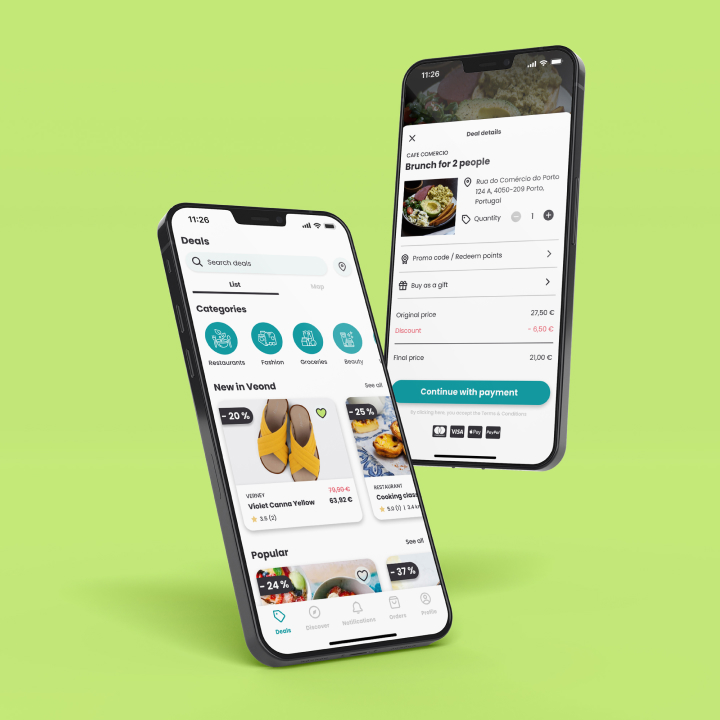
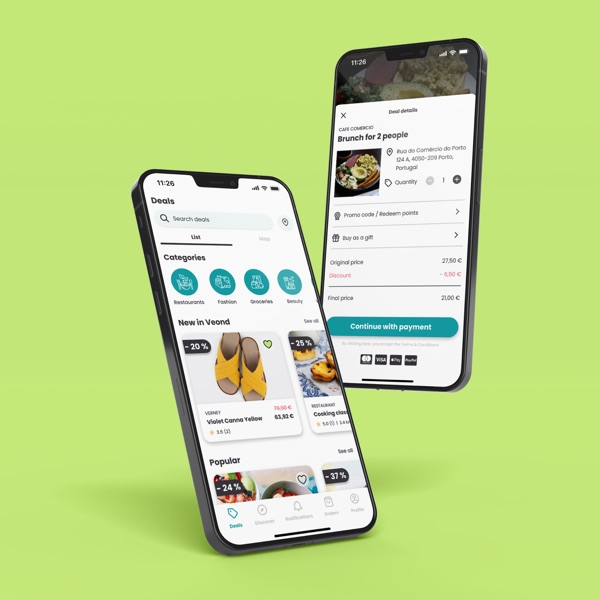
feat: make case-study cards color-agnostic and fix navbar alignment (#4)
- Drop the per-project accent colors (veond/eatsypeasy/spotify) from
  the case-study cards; cards now share a neutral lightgray surface
  with a subtle border for definition at rest
- Make card cover images square (matching the 1440x1440 source
  assets) with their own border-radius, so they read as a contained
  tile with even padding on all sides instead of a color wash
- Convert the three cover PNGs to resized, compressed JPEGs
  (~2.1MB -> ~150KB total) and drop the unused CSS accent variables
- Fix mobile card cover images (square aspect-ratio instead of a
  short letterboxed box) and mobile navbar (was capped at a fixed
  390px max-width instead of filling the viewport)
- Fix navbar logo/link vertical misalignment caused by the generic
  list-item and list margin rules leaking into the nav's <ul>/<li>

diff --git a/style.css b/style.css
@@ -9,9 +9,6 @@
     --black: #262626;
     --lightgray: #F3F3F3;
     --gray: #B0B0B0;
-    --veond: #C2E678;
-    --eatsypeasy: #F0AD64;
-    --spotify: #A4C9D8;
     --width-xl: 1000px;
     --width-l: 830px;
     --width-m: 660px;
@@ -229,8 +226,13 @@ header.hide {
     list-style-type: none;
     display: flex;
     flex-direction: row;
-    align-items: flex-start;
+    align-items: center;
     gap: 40px;
+    margin: 0;
+}
+
+.navbar ul li {
+    margin-bottom: 0;
 }
 
 main {
@@ -347,16 +349,18 @@ main.hero p {
     display: flex;
     flex-direction: row;
     align-items: center;
-    padding: 0px 32px 0px 0px;
+    padding: 24px;
     max-width: var(--width-l);
-    gap: 48px;
+    gap: 40px;
     position: relative;
     border-radius: 8px;
     overflow: hidden;
+    background-color: var(--lightgray);
+    border: 1px solid rgba(38, 38, 38, 0.08);
 }
 
 .card-img {
-    width: 340px;
+    width: 260px;
     height: 260px;
 }
 
@@ -377,7 +381,6 @@ main.hero p {
     justify-content: center;
     align-items: flex-start;
     gap: 12px;
-    padding: 32px 0;
 }
 
 .card-info p {
@@ -436,6 +439,7 @@ main.hero p {
     overflow: hidden;
     flex-shrink: 0;
     line-height: 0;
+    border-radius: 8px;
 }
 
 .card-img img {
@@ -462,23 +466,6 @@ main.hero p {
 
 .card:hover .card-cta::after {
     transform: translateX(4px);
-}
-
-.card-veond {
-    background-color: var(--veond);
-}
-
-.card-veond .card-img img {
-    object-fit: contain;
-    object-position: center;
-}
-
-.card-eatsypeasy {
-    background-color: var(--eatsypeasy);
-}
-
-.card-spotify {
-    background-color: var(--spotify);
 }
 
 .contact {
@@ -888,7 +875,7 @@ iframe {
     }
 
     .card-img {
-        width: 240px;
+        width: 200px;
         height: 200px;
     }
 
@@ -929,9 +916,10 @@ iframe {
 
     .navbar{
         padding: 14px 24px;
-        max-width: 390px;
+        max-width: 100%;
         gap: 20px;
         margin: 0px auto;
+        box-sizing: border-box;
     }
 
     .navbar ul {
@@ -979,11 +967,12 @@ iframe {
     
     .card-img {
         width: 100%;
-        height: 140px;
+        height: auto;
+        aspect-ratio: 1 / 1;
     }
 
     .card-img img {
-        object-fit: contain;
+        object-fit: cover;
     }
 
     .card-info {

diff --git a/index.html b/index.html
@@ -65,9 +65,9 @@
             <a href="#case-studies" class="hero-scroll">View work</a>
         </main>
         <section class="case-studies" id="case-studies">
-            <article class="card card-veond shadow">
+            <article class="card shadow">
                 <div class="card-img">
-                    <img src="images/veond-cover.png" alt="Veond mobile app mockup" loading="lazy">
+                    <img src="images/veond-cover.jpg" alt="Veond mobile app mockup" loading="lazy">
                 </div>
                 <div class="card-info">
                     <span class="card-year">2022</span>
@@ -81,9 +81,9 @@
                     <span class="card-cta" aria-hidden="true">View case study</span>
                 </div>
             </article>
-            <article class="card card-eatsypeasy shadow">
+            <article class="card shadow">
                 <div class="card-img">
-                    <img src="images/eatsypeasy-cover.png" alt="EatsyPeasy app mockup" loading="lazy">
+                    <img src="images/eatsypeasy-cover.jpg" alt="EatsyPeasy app mockup" loading="lazy">
                 </div>
                 <div class="card-info">
                     <span class="card-year">2022</span>
@@ -96,9 +96,9 @@
                     <span class="card-cta" aria-hidden="true">View case study</span>
                 </div>
             </article>
-            <article class="card card-spotify shadow">
+            <article class="card shadow">
                 <div class="card-img">
-                    <img src="images/spotify-cover.png" alt="Spotify Local Scene feature mockup" loading="lazy">
+                    <img src="images/spotify-cover.jpg" alt="Spotify Local Scene feature mockup" loading="lazy">
                 </div>
                 <div class="card-info">
                     <span class="card-year">2022</span>
